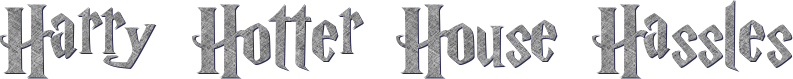
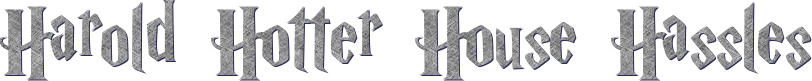
Updated Readme

diff --git a/README.md b/README.md
@@ -1,24 +1,59 @@
-# README
+# Harold Hotter's House Hassels
+Harrold Hotter's House Hassels (Alitteration is fun!) is our take on the concept of the Pottermore website.  
 
-This README would normally document whatever steps are necessary to get the
-application up and running.
+In this game you can:  
+Create a character  
+Choose a house, wand, familiar  
+Learn and forget Spells  
 
-Things you may want to cover:
+Learning spells gains your house points, unless it's... forbidden.  
+You can view the information for your house and all the houses.  
+Stats page has analytics on most common familar, wands, spell, etc.  
 
-* Ruby version
+## Dependencies
+ruby-2.3.3  
+rails-5.2.2  
+sqlite3-1.3.13  
 
-* System dependencies
+## Installation
+``` 
+git clone repo  
+bundle install  
+rake db:migrate  
+rake db:seed  
+rails s  
+http://localhost:3000
+```
 
-* Configuration
+## Todo
+Sorting Hat (take a test to get sorted)  
+Making points an attribute of house and character (table column)  
+Refactoring (of course)  
+Minor style changes  
+Colors based on house  
+Must have a wand before learning a spell  
+House values and House colors are weird  
+Level 2 spells (User must type the name of the spell from memory to level up spell for more points)  
+Familiar images  
 
-* Database creation
 
-* Database initialization
 
-* How to run the test suite
+## Resources thanks to:
+Api: www.potterapi.com   
+Spells and house info  
 
-* Services (job queues, cache servers, search engines, etc.)
+Pottermore.com  
+Base idea, Wand woods and cores info  
 
-* Deployment instructions
+Harry Potter Wiki  
+More info on spells and wands  
 
-* ...
+House flag images from: https://fairyglen.com  
+
+Great title image from: https://fontmeme.com/harry-potter-font/
+
+Bulma.io  
+FontAwesome.io  
+
+JK Rowling  
+The Wizarding World of Harry Potter  
